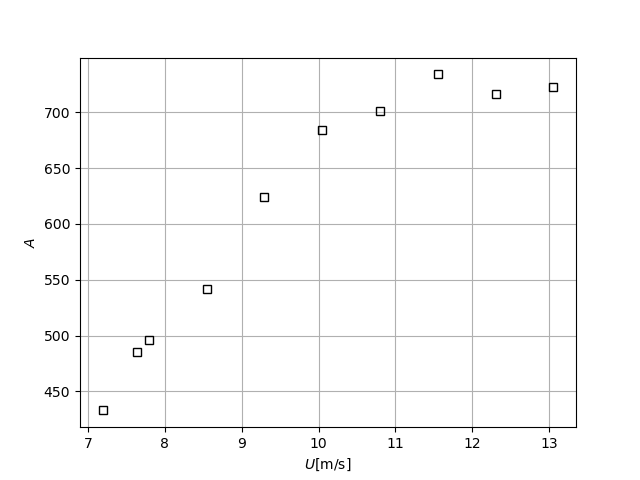
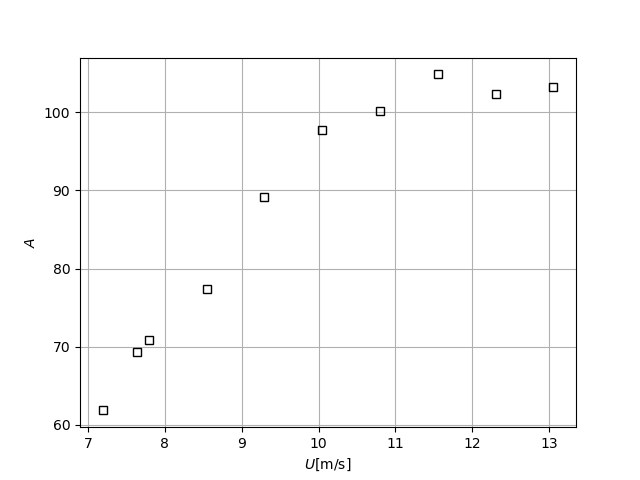
jueves

diff --git a/analisis_amp_00.py b/analisis_amp_00.py
@@ -22,7 +22,9 @@ from scipy.ndimage import distance_transform_edt
 from skimage.morphology import medial_axis
 from skimage.measure import label, regionprops
 from skimage.segmentation import clear_border
-
+delta_x_px = 105
+delta_x = 15
+escalax = delta_x_px/delta_x  # px/mm
 
 if socket.gethostname() == 'CNRS304952':
     dirw = 'C:/Users/IRL2027 2/Documents/Juan/GitHub/2024_flags/figures/'
@@ -62,7 +64,7 @@ for j, filej in enumerate(lista_full_2d[:]):
     delta_coord = np.abs(coord_amp[:,0].max()-coord_amp[:,0].min())
     delta_coord = np.abs(aux[:,0].max()-aux[:,1].min())
     # raise ValueError()
-    Amplitud[j]  = delta_coord*1.0
+    Amplitud[j]  = delta_coord*1.0/ escalax  # mm
     if j==3:
         fig0,ax0 = plt.subplots()
         ax0.imshow(Asum)
@@ -95,7 +97,7 @@ from scipy.stats import linregress
 # Excluimos el primer punto (U = 0, A^2 = 401^2 ≈ 160801) para ver el comportamiento
 slope, intercept, r_value, p_value, std_err = linregress(U[:-4], Amplitud[:-4]**2)
 
-p1 = np.polyfit(U[:5], Amplitud [:5]**2,1)
+p1 = np.polyfit(U[:5]**.5, Amplitud [:5],1)
 fun_Amplitud = np.poly1d(p1)
 
 print(f"Pendiente: {slope:.1f}, Intercepto: {intercept:.1f}, R²: {r_value**2:.3f}")
@@ -103,13 +105,13 @@ print(f"Pendiente: {slope:.1f}, Intercepto: {intercept:.1f}, R²: {r_value**2:.3
 # Graficar ajuste
 fig3,ax3 = plt.subplots()
 
-ax3.plot(U, Amplitud**2, 'ks', fillstyle='none', label='Data')
+ax3.plot(np.sqrt(U), Amplitud, 'ks', fillstyle='none', label='Data')
 Us = np.linspace(0,U[5],100)
 # ax3.plot(Us, intercept + slope * Us[:], 'r--', label=f'Ajuste lineal ($R^2 = {r_value**2:.3f}$)')
-ax3.plot(Us,fun_Amplitud(Us), 'r--', label=f'Linear Fit')
-ax3.set_xlabel('$U - U_c$[m/s]')
-ax3.set_ylabel('$A^2$')
-ax3.plot([0,0],[1.78e5,5e5],'k--')
+ax3.plot(Us**.5,fun_Amplitud(Us**.5), 'r--', label=f'Linear Fit')
+ax3.set_xlabel(r'$\sqrt{U - U_c}$[m/s]$^{1/2}$')
+ax3.set_ylabel('$A$')
+# ax3.plot([0,0],[1.78e5,5e5],'k--')
 ax3.legend()
 ax3.grid()
 fig3.tight_layout()

diff --git a/calibra_2d.py b/calibra_2d.py
@@ -1,0 +1,56 @@
+import matplotlib.pyplot as plt
+import scipy as sc
+import sympy as sp
+#%matplotlib widget
+import serial,socket,os,glob,sys
+#import atexit
+import numpy as np
+import pandas as pd
+import time, threading,sys,glob
+colores = (plt.rcParams['axes.prop_cycle'].by_key()['color'])
+import tifffile as tif
+import skimage as sk
+from IPython.display import Latex
+from funciones_flag import *
+from scipy.signal import find_peaks
+mks = ['s','o','>','p','v','^','*']
+from skimage.filters import threshold_otsu, rank
+from skimage.morphology import skeletonize, thin, remove_small_objects,closing, square, disk, medial_axis,binary_opening,binary_closing
+from skimage.util import invert
+from skimage import data
+from scipy.ndimage import distance_transform_edt
+from skimage.morphology import medial_axis
+from skimage.measure import label, regionprops
+from skimage.segmentation import clear_border
+from skimage.util import img_as_ubyte
+
+if socket.gethostname() == 'CNRS304952':
+    dirw = 'C:/Users/IRL2027 2/Documents/Juan/GitHub/2024_flags/figures/'
+    dir_root = r'D:/'
+else:
+    dirw = '/home/juan/Documents/Publicaciones/2025_euromech/flag/article/figures/'
+    dir_root = r'/home/juan/data/balseiro/'
+ 
+
+lista_calibra_1 = np.sort(glob.glob(dir_root+'CalibraciónLaser/vid_2025-02-25_15-49-17/*.tiff'))
+
+for i,filei in enumerate(lista_calibra_1[:]):
+    A = tif.imread(filei)
+    if i==0:
+        A_total = np.tile(np.zeros_like(A),[len(lista_calibra_1),1,1])
+        A_curva_i = np.zeros((len(lista_calibra_1),len(A.T)))
+    A_total[i] = A
+
+A_mean = A_total.mean(0)
+A_norm = (A_mean - A_mean.min()) / (A_mean.max() - A_mean.min())  # Normaliza entre 0 y 1
+
+img = img_as_ubyte(A_norm)
+
+radius = 5
+selem = disk(radius)
+
+local_otsu = rank.otsu(img, selem)
+threshold_global_otsu = threshold_otsu(img)
+global_otsu = img >= threshold_global_otsu
+
+   

diff --git a/Amplitudes_2D_01.py b/Amplitudes_2D_01.py
@@ -23,6 +23,10 @@ from scipy.ndimage import distance_transform_edt
 from skimage.morphology import medial_axis
 plt.close('All')
 
+delta_x_px = 105
+delta_x = 15
+escalax = delta_x_px/delta_x  # px/mm
+
 if socket.gethostname() == 'CNRS304952':
     dir_root = r'D:/'
 else:
